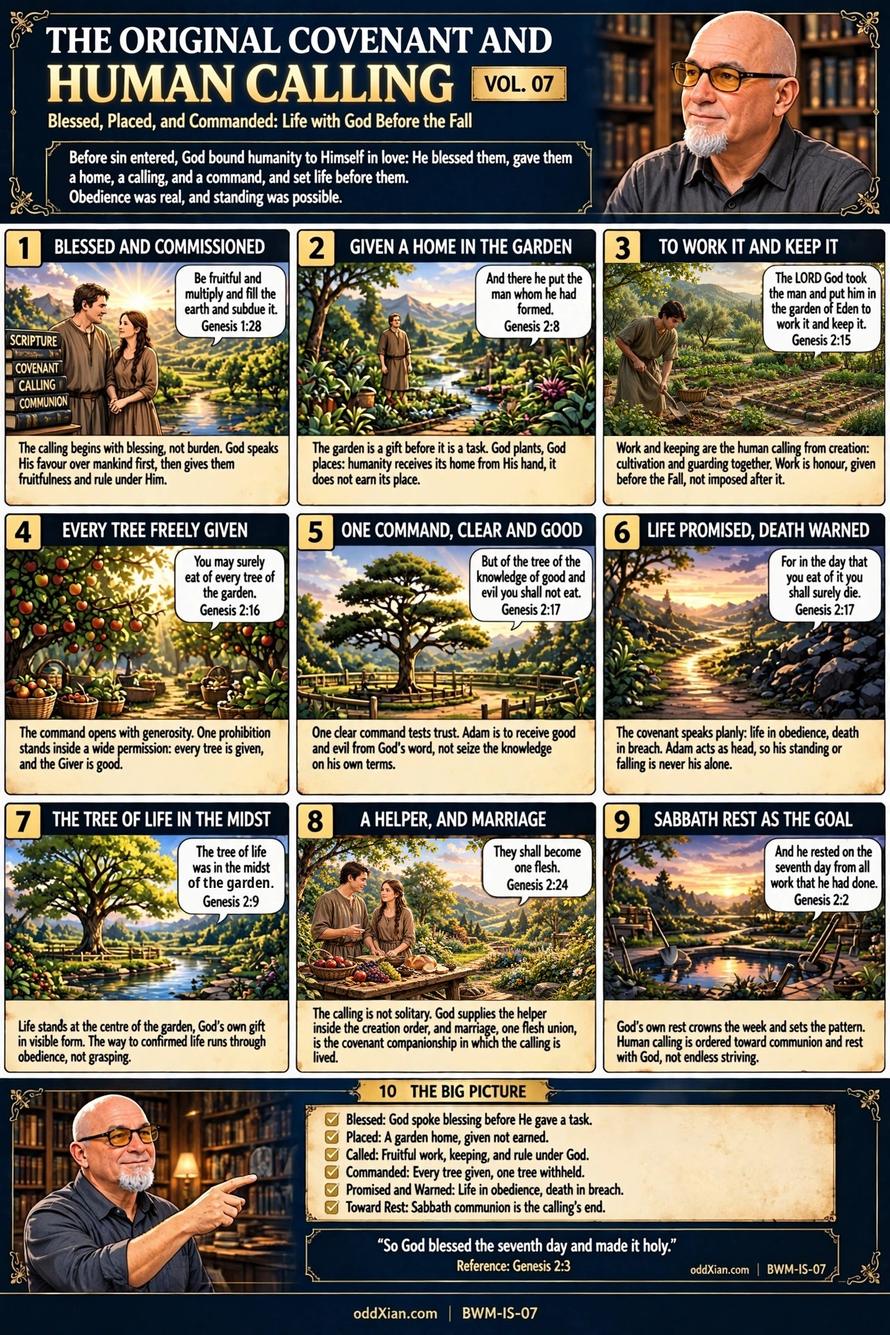
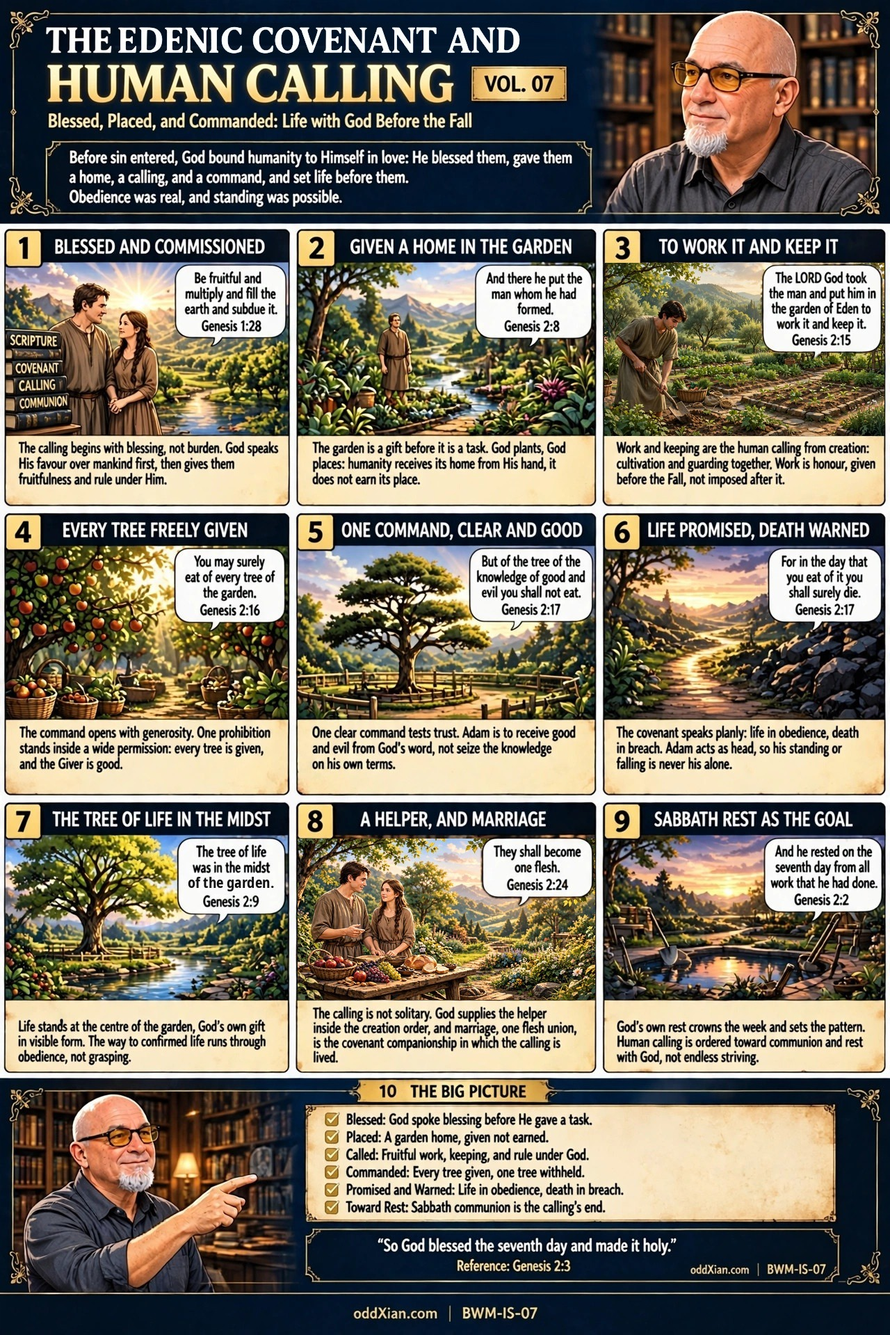
BWM-IS-07 revision 3: header title re-lettered to the ruled title
The plate header bore the former title after the 2026-11-13 retitle ruling. The first title line now reads THE EDENIC COVENANT AND, set entirely from the plate own native glyphs transplanted within the same line (E from THE, D from AND, N and I from ORIGINAL, C from COVENANT; COVENANT and AND shifted as whole words). No font introduced, no letter re-rendered. Zone-confined pixel diff against revision 2: zero changed pixels outside the header title band. Header verified at 2x and the new word at 4x (QA-LOG addendum 9). Transcription retitle note marked resolved; manifest, series index, and panel script updated to revision 3. Draft only: nothing approved, merged, or published.

Human-Curated, AI-Enabled (HCAE)

Changed region(s): [[0.125, 0.0, 0.625, 0.0625]]

diff --git a/biblical-worldmodel/illustrated-systematics/volumes/BWM-IS-07/TRANSCRIPTION.md b/biblical-worldmodel/illustrated-systematics/volumes/BWM-IS-07/TRANSCRIPTION.md
@@ -1,10 +1,10 @@
 # BWM-IS-07 Transcription: The Edenic Covenant and Human Calling
 
-Faithful transcription of volumes/BWM-IS-07/plate.jpg, revision 2 (1280x1920, built by thinx-muse under the program handover, ingested 2026-11-10 on the draft PR for this volume; revision 2 filed 2026-11-16). Bubble texts are short ESV excerpts as printed on the plate.
+Faithful transcription of volumes/BWM-IS-07/plate.jpg, revision 3 (1280x1920, built by thinx-muse under the program handover, ingested 2026-11-10 on the draft PR for this volume; revision 2 filed 2026-11-16; revision 3 filed 2026-11-16). Bubble texts are short ESV excerpts as printed on the plate.
 
-Retitle note (2026-11-13): JD ruled the volume is titled "The Edenic Covenant and Human Calling". The plate (revision 2) still bears the former title in its header; the header line below is transcribed as printed. The plate requires revision before publication.
+Retitle note (2026-11-13, resolved 2026-11-16): JD ruled the volume is titled "The Edenic Covenant and Human Calling". Revisions 1 and 2 bore the former title in the plate header; in revision 3 the header line was re-lettered to the ruled title using the plate's own native glyphs (QA-LOG.md addendum 9), so the header below is transcribed as printed and now matches the ruled title.
 
-Header: THE ORIGINAL COVENANT AND HUMAN CALLING. VOL. 07. Subtitle: Blessed, Placed, and Commanded: Life with God Before the Fall. Framing box: Before sin entered, God bound humanity to Himself in love: He blessed them, gave them a home, a calling, and a command, and set life before them. Obedience was real, and standing was possible. Book stack (panel 1): SCRIPTURE, COVENANT, CALLING, COMMUNION.
+Header: THE EDENIC COVENANT AND HUMAN CALLING. VOL. 07. Subtitle: Blessed, Placed, and Commanded: Life with God Before the Fall. Framing box: Before sin entered, God bound humanity to Himself in love: He blessed them, gave them a home, a calling, and a command, and set life before them. Obedience was real, and standing was possible. Book stack (panel 1): SCRIPTURE, COVENANT, CALLING, COMMUNION.
 
 1. BLESSED AND COMMISSIONED. Bubble: "Be fruitful and multiply and fill the earth and subdue it." Genesis 1:28. Caption: The calling begins with blessing, not burden. God speaks His favour over mankind first, then gives them fruitfulness and rule under Him.
 2. GIVEN A HOME IN THE GARDEN. Bubble: "And there he put the man whom he had formed." Genesis 2:8. Caption: The garden is a gift before it is a task. God plants, God places: humanity receives its home from His hand, it does not earn its place.
@@ -19,6 +19,6 @@ Header: THE ORIGINAL COVENANT AND HUMAN CALLING. VOL. 07. Subtitle: Blessed, Pla
 
 Footer: oddXian.com | BWM-IS-07 (carried in the original artwork, in the panel 10 band and in the footer band).
 
-Production note: one lettering defect in the raw generation was repaired programmatically and verified by magnified crop readback (second pass, neighbours included): panel 7 bubble dropped the word "of" ("was in the midst the garden"); the line was re-lettered to "of the garden." with height matched to the element's own ink box and the fill sampled from the bubble background. The ingested plate is therefore a repaired derivative of the raw generation, recorded here and in QA-LOG.md. Revision 2 (2026-11-16, on JD's ruling): the panel 3 and panel 8 scenes were regenerated without the host's features (panel 3: a young dark-haired gardener with a spade among tended beds; panel 8: Adam and Eve in Eden dress at a garden table outdoors) and composited into the plate; the two speech bubbles are revision 1 native pixels transplanted over the new scenes, so no lettering was re-rendered. A zone-confined pixel diff against revision 1 confirms no change outside the two scene rectangles beyond JPEG noise. The full element checklist was re-run on revision 2 under QA-PROCESS.md (QA-LOG.md addendum 8). Observations remaining: the footer pointer appears twice; no per-panel ID lines were rendered; one unlabeled book spine in panel 1 carries decorative pseudo-text.
+Production note: one lettering defect in the raw generation was repaired programmatically and verified by magnified crop readback (second pass, neighbours included): panel 7 bubble dropped the word "of" ("was in the midst the garden"); the line was re-lettered to "of the garden." with height matched to the element's own ink box and the fill sampled from the bubble background. The ingested plate is therefore a repaired derivative of the raw generation, recorded here and in QA-LOG.md. Revision 2 (2026-11-16, on JD's ruling): the panel 3 and panel 8 scenes were regenerated without the host's features (panel 3: a young dark-haired gardener with a spade among tended beds; panel 8: Adam and Eve in Eden dress at a garden table outdoors) and composited into the plate; the two speech bubbles are revision 1 native pixels transplanted over the new scenes, so no lettering was re-rendered. A zone-confined pixel diff against revision 1 confirms no change outside the two scene rectangles beyond JPEG noise. The full element checklist was re-run on revision 2 under QA-PROCESS.md (QA-LOG.md addendum 8). Observations remaining: the footer pointer appears twice; no per-panel ID lines were rendered; one unlabeled book spine in panel 1 carries decorative pseudo-text. Revision 3 (2026-11-16): the header title line was re-lettered from "THE ORIGINAL COVENANT AND" to "THE EDENIC COVENANT AND" by transplanting the plate's own native glyphs (E, D, N, I, and C taken from the same header line; COVENANT and AND shifted as whole words on the plate's own pixels); a zone-confined pixel diff against revision 2 confirms no change outside the header title band.
 
 Human-Curated, AI-Enabled (HCAE)

diff --git a/biblical-worldmodel/illustrated-systematics/QA-LOG.md b/biblical-worldmodel/illustrated-systematics/QA-LOG.md
@@ -143,3 +143,16 @@ JD ruled (Decision Queue, recorded 2026-11-16) as recommended on the addendum 7 
 Disposition: BWM-IS-07 revision 2 is graphic-draft, QA logged, awaiting JD's review on draft PR #30. The doctrine and publication rulings are still JD's to give. Publication only on JD's approval.
 
 Human-Curated, AI-Enabled (HCAE)
+## Addendum 9, 2026-11-16: BWM-IS-07 revision 3; header title re-lettered to the ruled title
+
+The one artwork item carried as outstanding since the retitle (addendum 7 point 7, addendum 8 point 5 (a)) is now closed: the plate header no longer bears the former title. On JD's "Proceed" in the Systematics Illustrated chat, the header title line was revised so the plate carries the ruled title, "The Edenic Covenant and Human Calling".
+
+1. Method. The change is confined to the header's first title line, y 39-75. The word ORIGINAL was removed and EDENIC was set in its place using only the plate's own native glyphs, transplanted from the same title line (E from THE, D from AND, N and I from ORIGINAL itself, C from COVENANT), with COVENANT and AND shifted left as whole words on their own pixels to close the spacing. No font was introduced and no letter was re-rendered; letter positions were taken from an ink-run segmentation of the line itself, and every transplanted glyph was pasted on a luminance mask so the header background remains the plate's own gradient. The second title line (HUMAN CALLING, gold), the VOL. 07 marker, subtitle, framing box, and host portrait are untouched revision 2 pixels.
+2. Zone confinement, verified. A pixel diff of revision 3 against revision 2 shows zero pixels above the reporting threshold outside the header title band (y 28-90, x 150-860).
+3. Verification. The revised header was read at 2x and the new word at 4x: "THE EDENIC COVENANT AND / HUMAN CALLING" reads letter-perfect, glyph weight, serif style, and spacing indistinguishable from the surrounding native lettering, no seams at reading scale or at 4x. All other plate elements stand on the revision 2 full-checklist PASS (addendum 8); the header elements other than the title line were re-read in this pass and are unchanged and correct.
+4. Plate. volumes/BWM-IS-07/plate.jpg revision 3, 998102 bytes, 1280x1920, sha256 c801892da8e861445915682db9957745770f3a7c1c1e075c214514c016386949.
+5. Records. TRANSCRIPTION.md now transcribes the header as printed under the ruled title, and its retitle note is marked resolved. PANEL-SCRIPT.md and SERIES-INDEX.md carry the revision 3 note; ASSET-MANIFEST.csv carries revision 3 with the new hash and size.
+
+Disposition: BWM-IS-07 revision 3 is graphic-draft, QA logged, awaiting JD's review on draft PR #30. The plate now matches the ruled title in its artwork. The doctrine and publication rulings are still JD's to give. Publication only on JD's approval.
+
+Human-Curated, AI-Enabled (HCAE)

diff --git a/biblical-worldmodel/illustrated-systematics/volumes/BWM-IS-07/PANEL-SCRIPT.md b/biblical-worldmodel/illustrated-systematics/volumes/BWM-IS-07/PANEL-SCRIPT.md
@@ -1,6 +1,6 @@
 # BWM-IS-07 | The Edenic Covenant and Human Calling
 
-**Status:** Script for weekly draft, graphic-draft pending JD review (weekly volume run, 2026-11-10). Revision 2 (2026-11-16): panels 3 and 8 regenerated on JD's ruling; full QA re-run (QA-LOG addendum 8). **Graphic footer:** oddXian.com | BWM-IS-07. Narrator: glasses, bald, white goatee, clean-shaven upper lip, charcoal shirt (style guide palette rotation: IS-02 red, IS-00 purple, IS-03 blue, IS-04 green, IS-05 burgundy, IS-06 slate, IS-07 charcoal). Ten panels, navy/gold/parchment, 1280x1920. Host in header and closing panel only, never in body panels 1 to 9. No depiction of God the Father or of any divine Person; divine presence is shown by light and landscape only.
+**Status:** Script for weekly draft, graphic-draft pending JD review (weekly volume run, 2026-11-10). Revision 2 (2026-11-16): panels 3 and 8 regenerated on JD's ruling; full QA re-run (QA-LOG addendum 8). Revision 3 (2026-11-16): header title re-lettered to the ruled title (QA-LOG addendum 9). **Graphic footer:** oddXian.com | BWM-IS-07. Narrator: glasses, bald, white goatee, clean-shaven upper lip, charcoal shirt (style guide palette rotation: IS-02 red, IS-00 purple, IS-03 blue, IS-04 green, IS-05 burgundy, IS-06 slate, IS-07 charcoal). Ten panels, navy/gold/parchment, 1280x1920. Host in header and closing panel only, never in body panels 1 to 9. No depiction of God the Father or of any divine Person; divine presence is shown by light and landscape only.
 
 ## Governing claim
 
@@ -8,7 +8,7 @@ Before sin entered, God bound humanity to Himself in a gracious arrangement of b
 
 ## Header
 
-- Title: THE EDENIC COVENANT AND HUMAN CALLING (COVENANT in gold), with VOL. 07 marker. Retitled by JD ruling 2026-11-13; plate revision 1 still bears the former title and requires revision before publication.
+- Title: THE EDENIC COVENANT AND HUMAN CALLING (COVENANT in gold), with VOL. 07 marker. Retitled by JD ruling 2026-11-13; the plate header was re-lettered to the ruled title in revision 3 (2026-11-16, native glyph transplant, QA-LOG addendum 9).
 - Subtitle: Blessed, Placed, and Commanded: Life with God Before the Fall.
 - Framing box: Before sin entered, God bound humanity to Himself in love: He blessed them, gave them a home, a calling, and a command, and set life before them. Obedience was real, and standing was possible.
 - Book stack (in panel 1 scene): SCRIPTURE / COVENANT / CALLING / COMMUNION

diff --git a/biblical-worldmodel/illustrated-systematics/SERIES-INDEX.md b/biblical-worldmodel/illustrated-systematics/SERIES-INDEX.md
@@ -11,7 +11,7 @@
 | BWM-IS-04 | ST-1 | The Attributes and Glory of God | published to the Pages site 2026-11-01 on JD approval (built by thinx-muse; example plate approved by JD; QA logged) |
 | BWM-IS-05 | ST-2 | Creation: Very Good | published to the Pages site 2026-11-01 on JD approval |
 | BWM-IS-06 | ST-2 | Humanity in God's Image | published to the Pages site 2026-11-04 on JD approval (drafted 2026-11-03, QA logged; PR #28) |
-| BWM-IS-07 | ST-2 | The Edenic Covenant and Human Calling | graphic-draft, drafted 2026-11-10, QA logged; retitled by JD ruling 2026-11-13; revision 2 (panels 3 and 8 regenerated) on JD ruling 2026-11-16, QA re-run logged; awaiting JD review on the draft PR |
+| BWM-IS-07 | ST-2 | The Edenic Covenant and Human Calling | graphic-draft, drafted 2026-11-10, QA logged; retitled by JD ruling 2026-11-13; revision 2 (panels 3 and 8 regenerated) on JD ruling 2026-11-16, QA re-run logged; revision 3 (header title re-lettered to the ruled title) 2026-11-16; awaiting JD review on the draft PR |
 | BWM-IS-08 | ST-3 | The Fall: From Communion to Rebellion | planned |
 | BWM-IS-09 | ST-3 | Closed Self-Interest: The Root of Sin | planned |
 | BWM-IS-10 | ST-3 | Corruption, Death, and the Human Condition | planned |
